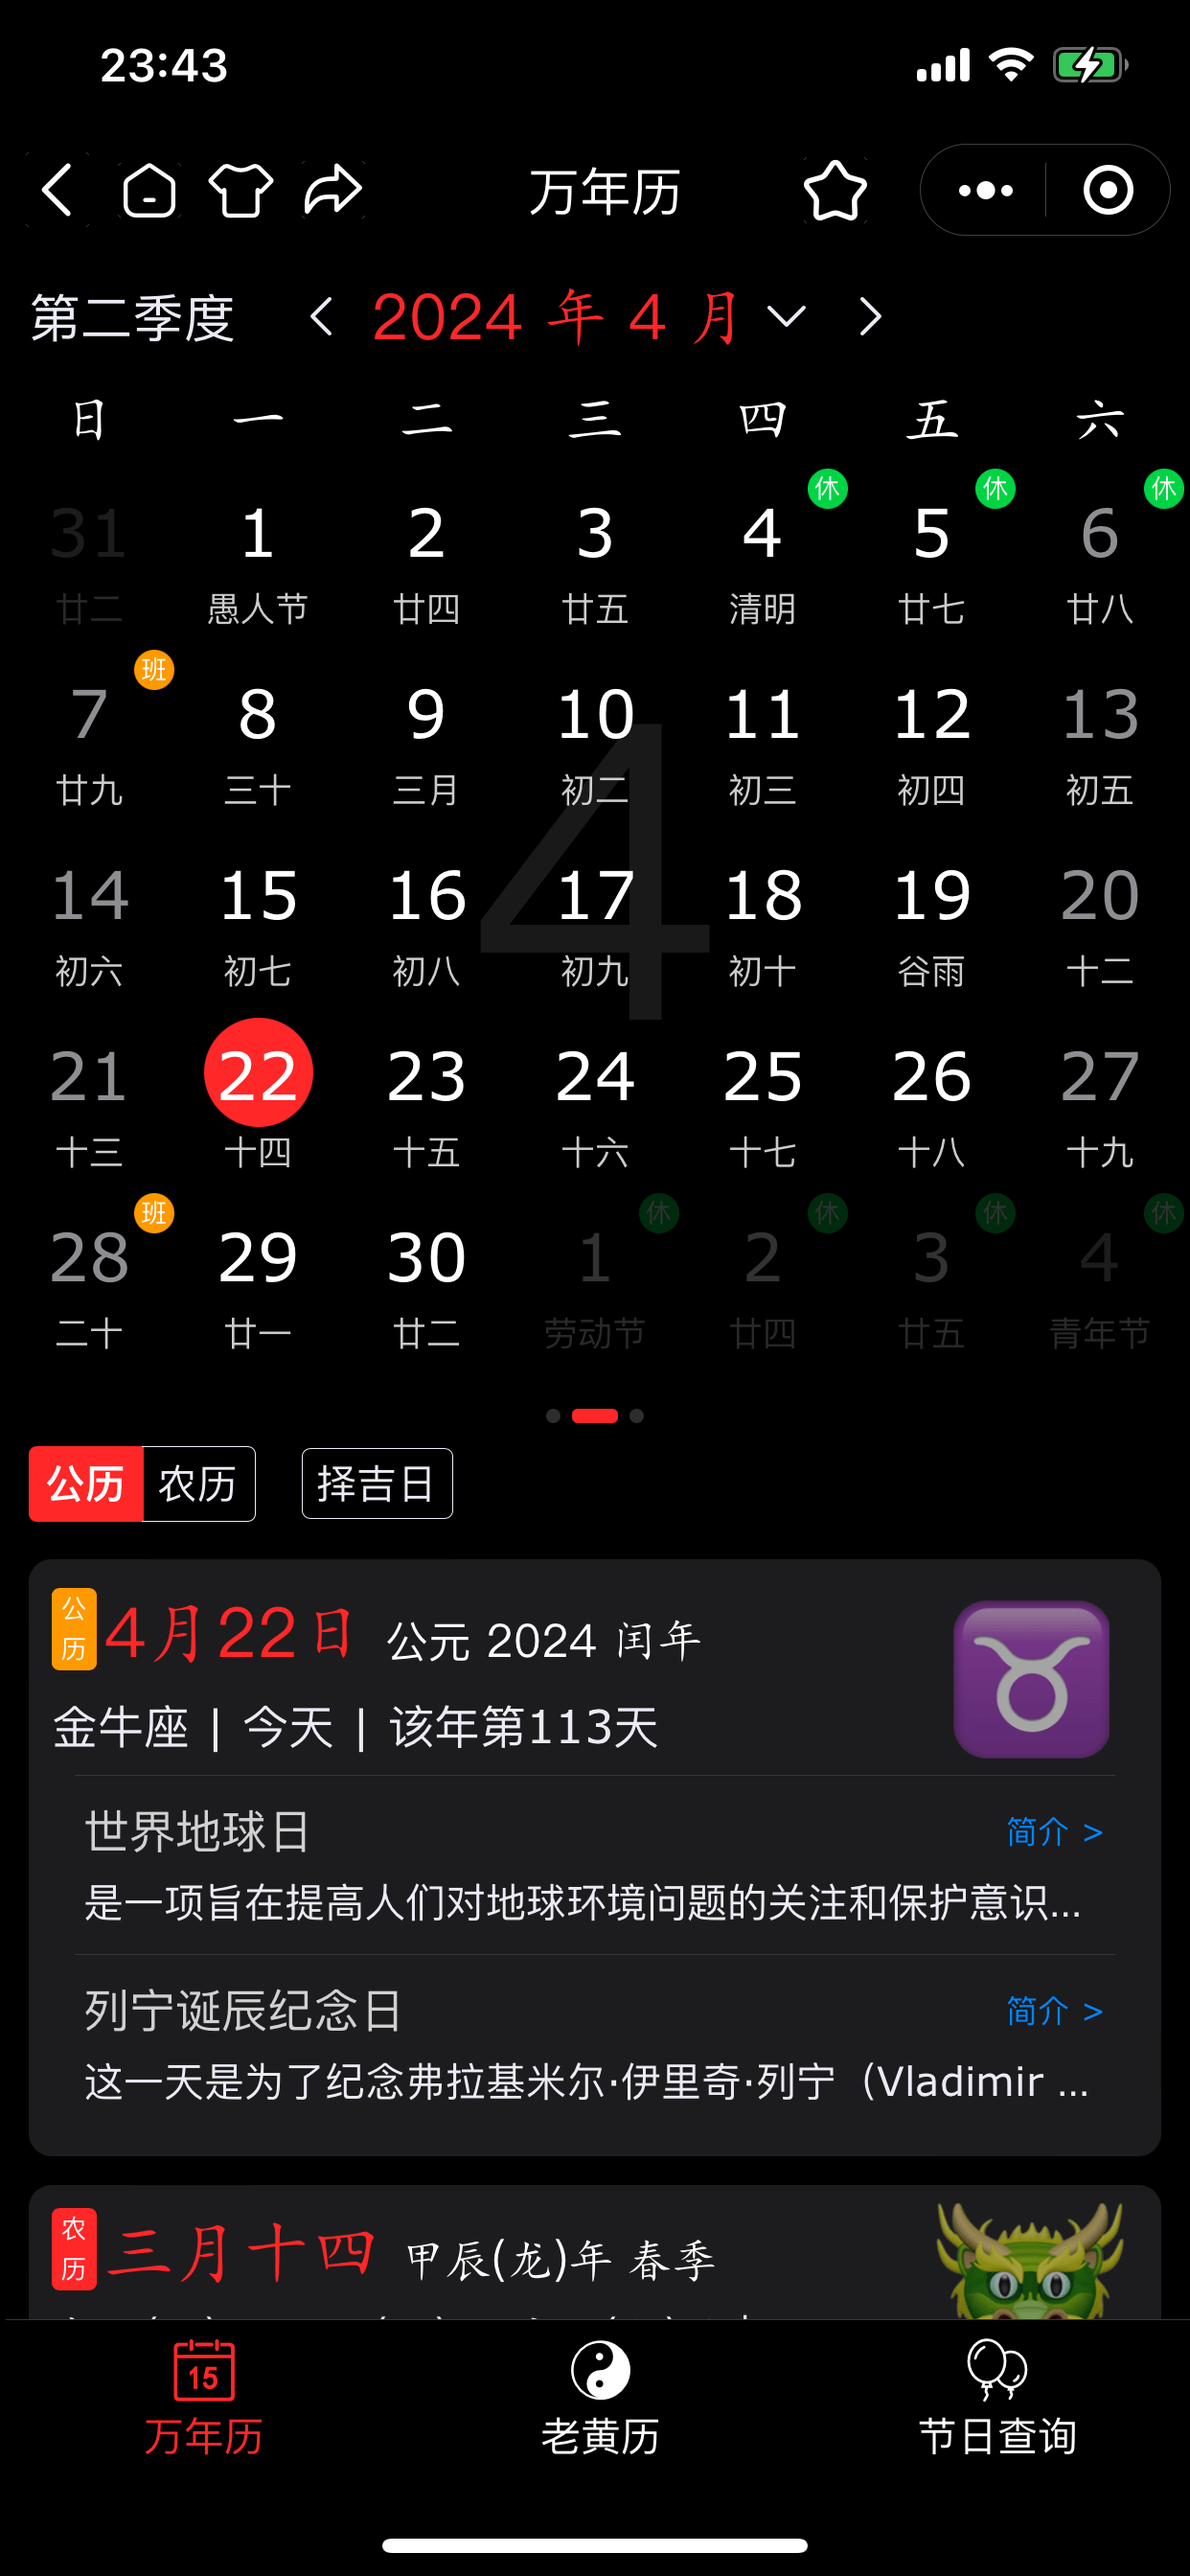
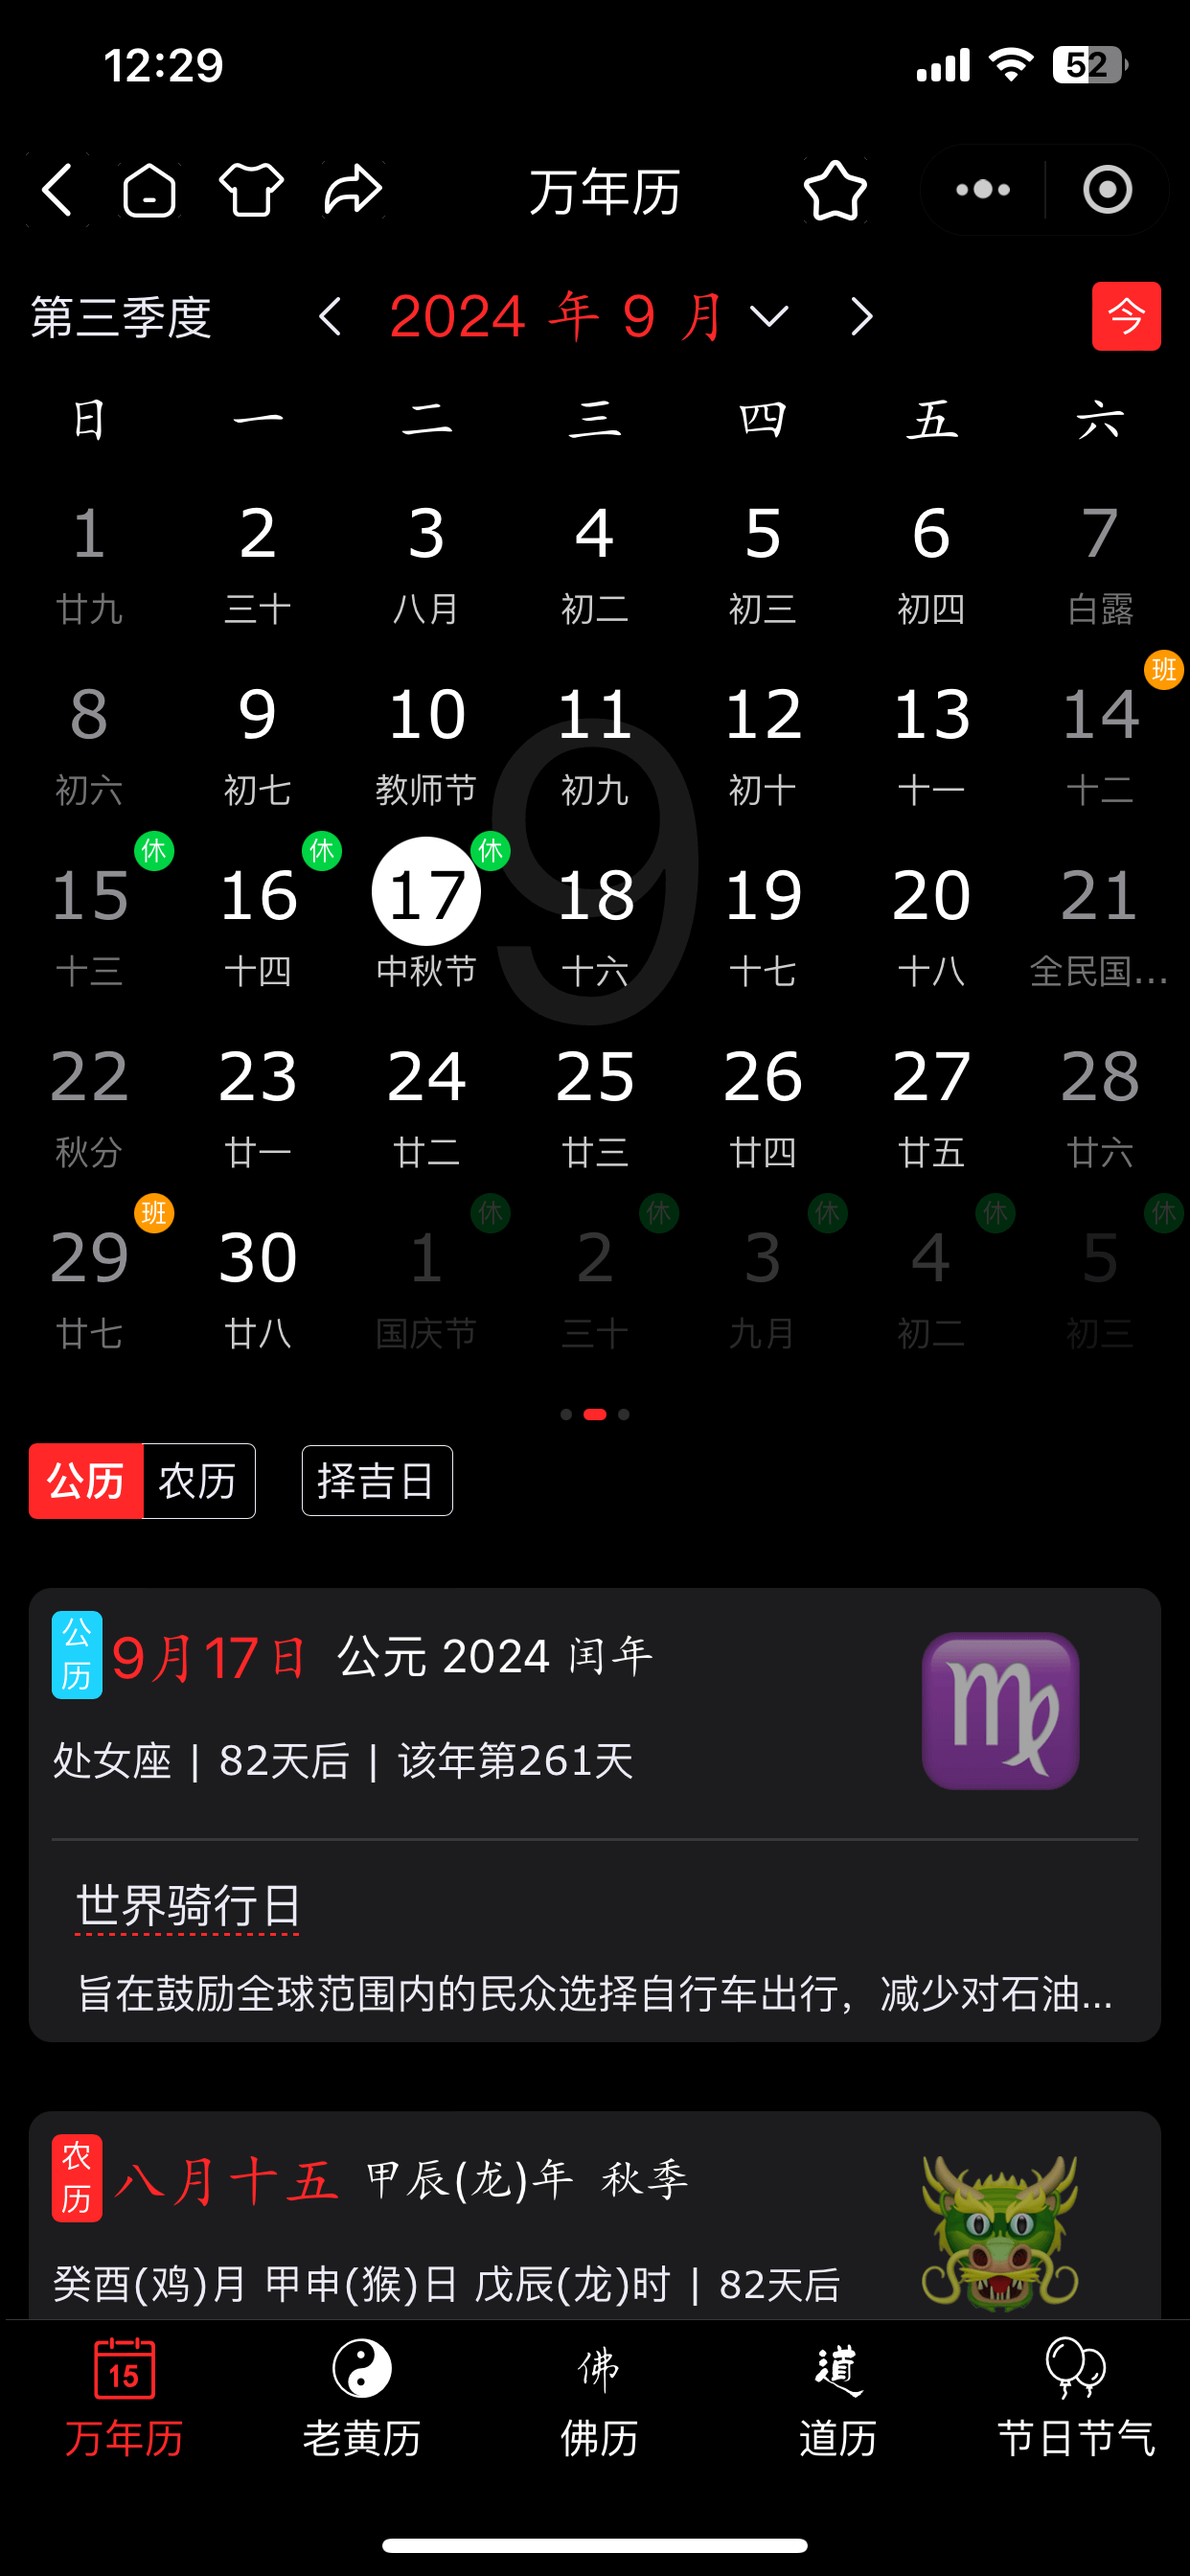
feat: 新增佛历和道历

diff --git a/src/templates/pages.ts b/src/templates/pages.ts
@@ -20,18 +20,19 @@ export type TPage = {
   enableRecommend?: boolean;
 };
 
+// 直接复制项目 ucalc 的 pages 常量过来
 export const pages = {
   // 这是一个虚拟页面
   $lastAccess: {
     title: '上次访问的页面',
     path: '$lastAccess',
-  } as TPage,
+  } satisfies TPage,
   home: {
     title: '首页',
     path: '/pages/home/index',
     shareTitle: commonShareTitle,
     icon: 'home',
-  } as TPage,
+  } satisfies TPage,
   basic: {
     title: '科学计算器',
     path: '/subpkg2/pages/basic/index',
@@ -43,7 +44,7 @@ export const pages = {
       '精准计算，历史可查。加减乘除、括号，一应俱全!',
       '精准计算，记录无忧。加减乘除、括号，一键掌握!',
     ],
-  } as TPage,
+  } satisfies TPage,
   relationship: {
     title: '亲戚称呼',
     path: '/subpkg2/pages/relationship/index',
@@ -55,9 +56,9 @@ export const pages = {
       '亲戚关系晕头转向？试试这款计算神器！',
       '瞬间搞定复杂亲戚称呼，一款神器在手！',
     ],
-  } as TPage,
+  } satisfies TPage,
   bmi_adult: {
-    title: '成人肥胖评估 (BMI指数)',
+    title: '成人肥胖评估(18岁以上)',
     path: '/subpkg2/pages/bmi_adult/index',
     icon: 'bmi',
     enableIndependentTheme: true,
@@ -67,11 +68,11 @@ export const pages = {
       '一键测BMI，科学评估健康，迈向更健康的生活！',
       'BMI指数计算器，健康体重一测便知!',
     ],
-  } as TPage,
+  } satisfies TPage,
   bmi_child: {
-    title: '儿童生长评估 (0~7岁)',
+    title: '儿童生长评估(0~7岁)',
     path: '/subpkg2/pages/bmi_child/index',
-    icon: 'smtz',
+    icon: 'bmi-child',
     enableIndependentTheme: true,
     enableRecommend: true,
     shareTitle: [
@@ -79,15 +80,15 @@ export const pages = {
       '宝宝生长水平测试，发育情况早知道!',
       '宝宝身高体重是否合格，即刻知晓！',
     ],
-  } as TPage,
+  } satisfies TPage,
   bmi_teenager: {
-    title: '儿童青少年身高评估 (7~18岁)',
+    title: '青少年身高评估(7~18岁)',
     path: '/subpkg2/pages/bmi_teenager/index',
-    icon: 'smtz',
+    icon: 'bmi-teenager',
     enableIndependentTheme: true,
     enableRecommend: true,
-    shareTitle: [],
-  } as TPage,
+    shareTitle: ['发育等级、遗传身高，一键科学测评!'],
+  } satisfies TPage,
   calendar: {
     title: '万年历',
     path: '/subpkg2/pages/calendar/index',
@@ -98,26 +99,36 @@ export const pages = {
       '小而美的万年历，假期早知道!',
       '小而美的万年历，良辰吉日就在今朝!',
     ],
-  } as TPage,
+  } satisfies TPage,
   calendar_lunar: {
     title: '老黄历',
     path: '/subpkg2/pages/calendar_lunar/index',
     icon: 'calendar-lunar',
     enableIndependentTheme: true,
     enableRecommend: true,
-  } as TPage,
+  } satisfies TPage,
+  calendar_foto: {
+    title: '佛历',
+    path: '/subpkg2/pages/calendar_foto/index',
+    icon: 'calendar-foto',
+    enableIndependentTheme: true,
+    enableRecommend: true,
+  } satisfies TPage,
+  calendar_tao: {
+    title: '道历',
+    path: '/subpkg2/pages/calendar_tao/index',
+    icon: 'calendar-tao',
+    enableIndependentTheme: true,
+    enableRecommend: true,
+  } satisfies TPage,
   calendar_query: {
-    title: '节日查询',
+    title: '节日节气',
     path: '/subpkg2/pages/calendar_query/index',
     icon: 'calendar-query',
     enableIndependentTheme: true,
     enableRecommend: true,
-    shareTitle: ['快速查询节日，试试这个工具'],
-  } as TPage,
-  blank: {
-    title: '空白页',
-    path: '/subpkg2/pages/blank/index',
-  } as TPage,
+    shareTitle: ['快速查询节日节气，试试这个工具'],
+  } satisfies TPage,
   torch: {
     title: '手电筒',
     path: '/subpkg2/pages/torch/index',
@@ -125,25 +136,59 @@ export const pages = {
     enableIndependentTheme: true,
     enableRecommend: true,
     shareTitle: ['💡点亮黑暗，照亮你的世界🚶♂', '💡 点亮黑暗，一触即发📱'],
-  } as TPage,
+  } satisfies TPage,
   settings: {
     title: '设置',
     path: '/subpkg1/pages/settings/index',
     icon: 'settings',
     shareTitle: commonShareTitle,
-  } as TPage,
+  } satisfies TPage,
   about: {
     title: '关于',
     path: '/subpkg1/pages/about/index',
     shareTitle: commonShareTitle,
-  } as TPage,
+  } satisfies TPage,
+  dnf: {
+    title: '官网信息',
+    path: '/subpkg3/pages/dnf/index',
+    icon: 'dnf',
+    shareTitle: ['地下城与勇士·起源'],
+    enableIndependentTheme: true,
+    enableRecommend: true,
+  } satisfies TPage,
+  dnf_tools: {
+    title: '伤害计算',
+    path: '/subpkg3/pages/dnf_tools/index',
+    shareTitle: [
+      '副本攻略、职业攻略、装备攻略、宠物攻略等，带你领略DNF的精彩世界！',
+    ],
+    enableIndependentTheme: true,
+  } satisfies TPage,
+  dnf_music: {
+    title: 'DNF BGM',
+    path: '/subpkg3/pages/dnf_music/index',
+    shareTitle: [
+      '唤醒你的青春记忆，热血岁月，旋律永存，一起再战地下城！',
+      '唤醒热血青春，每一次旋律，都是一段不灭的记忆！',
+    ],
+    enableIndependentTheme: true,
+  } satisfies TPage,
+  blank: {
+    title: '空白页',
+    path: '/subpkg2/pages/blank/index',
+  } satisfies TPage,
+  demo_echarts: {
+    title: 'echarts 图表',
+    path: '/subpkg3/pages/demo_echarts/index',
+  } satisfies TPage,
   development: {
-    title: '组件示例',
+    title: '开发页',
     path: '/subpkg1/pages/development/index',
     shareTitle: commonShareTitle,
-  } as TPage,
+    enableIndependentTheme: true,
+  } satisfies TPage,
   native_page_demo: {
     title: '原生页面demo',
     path: '/subpkg1/pages/native-page-demo/index',
-  } as TPage,
+  } satisfies TPage,
 } as const;

diff --git a/src/templates/VerticalFeatures.tsx b/src/templates/VerticalFeatures.tsx
@@ -5,7 +5,7 @@ import { Section } from '../layout/Section';
 const VerticalFeatures = () => (
   <Section
     title="功能介绍"
-    description="✨小而美的工具商店，应有尽用，个性换肤，永久免费！"
+    description="✨小而美的生活小工具商店，个性换肤，永久免费！立即扫码，一键直达！"
   >
     <VerticalFeatureRow
       pageId="calendar"
@@ -17,8 +17,17 @@ const VerticalFeatures = () => (
       reverse
     />
     <VerticalFeatureRow
+      pageId="calendar_foto"
+      description="因果犯忌、纪念日、月斋、十斋日、六斋日、朔望斋、观音斋、杨公忌"
+    />
+    <VerticalFeatureRow
+      pageId="calendar_tao"
+      description="道教节日、三会日、三元日、八节日、五腊日、八会日、戌日、天赦日"
+      reverse
+    />
+    <VerticalFeatureRow
       pageId="calendar_query"
-      description="农历节日、24节气、公历节日、西方节日、法定节日"
+      description="24节气、农历节日、公历节日、法定节日、佛教节日、道教节日"
     />
     <VerticalFeatureRow
       pageId="bmi_child"

diff --git a/src/utils/AppConfig.ts b/src/utils/AppConfig.ts
@@ -2,7 +2,7 @@ export const AppConfig = {
   site_name: '小而美工具',
   title: '小而美工具',
   description:
-    '精心雕琢每一项实用小功能，为用户带来无与伦比的便捷与高效生活体验。',
+    '万年历/老黄历/佛历/道历/节气/节日/儿童(0-7岁)生长评估/青少年(7-18岁)生长评估/成人肥胖评估/亲戚称呼/科学计算器/手电筒/DNF小助手，持续更新，不断优化，感谢使用！',
   locale: 'zh-CN',
   basePath: '/ucalc-website',
 };

diff --git a/README.md b/README.md
@@ -28,13 +28,18 @@ npm run deploy:gitee
 
 ### 更新图片资源
 
+创建`.env.local`环境变量文件，并保存 tinypng 站点申请的秘钥
+```
+TINYPNG_API_KEY=<YOUR_API_KEY>
+```
+
 ```bash
 # 1.将新增的图片（原始大小）拷贝到 public/assets/screenshots_raw 目录
 # 2.执行下面脚本，全量压缩图片
-TINYPNG_API_KEY=<API_KEY> npm run update-assets
+npx dotenv -e .env.local npm run update-assets
 
 # 增量压缩图片，仅 --since 日期之后新增的图片会被压缩
-TINYPNG_API_KEY=<API_KEY> npm run update-assets -- --since='2024-04-29T10:00:00'
+npx dotenv -e .env.local npm run update-assets -- --since='2024-04-29T10:00:00'
 ```
 
 > 脚本依赖 zx 工具，请先确保全局安装`npm install -g zx`
